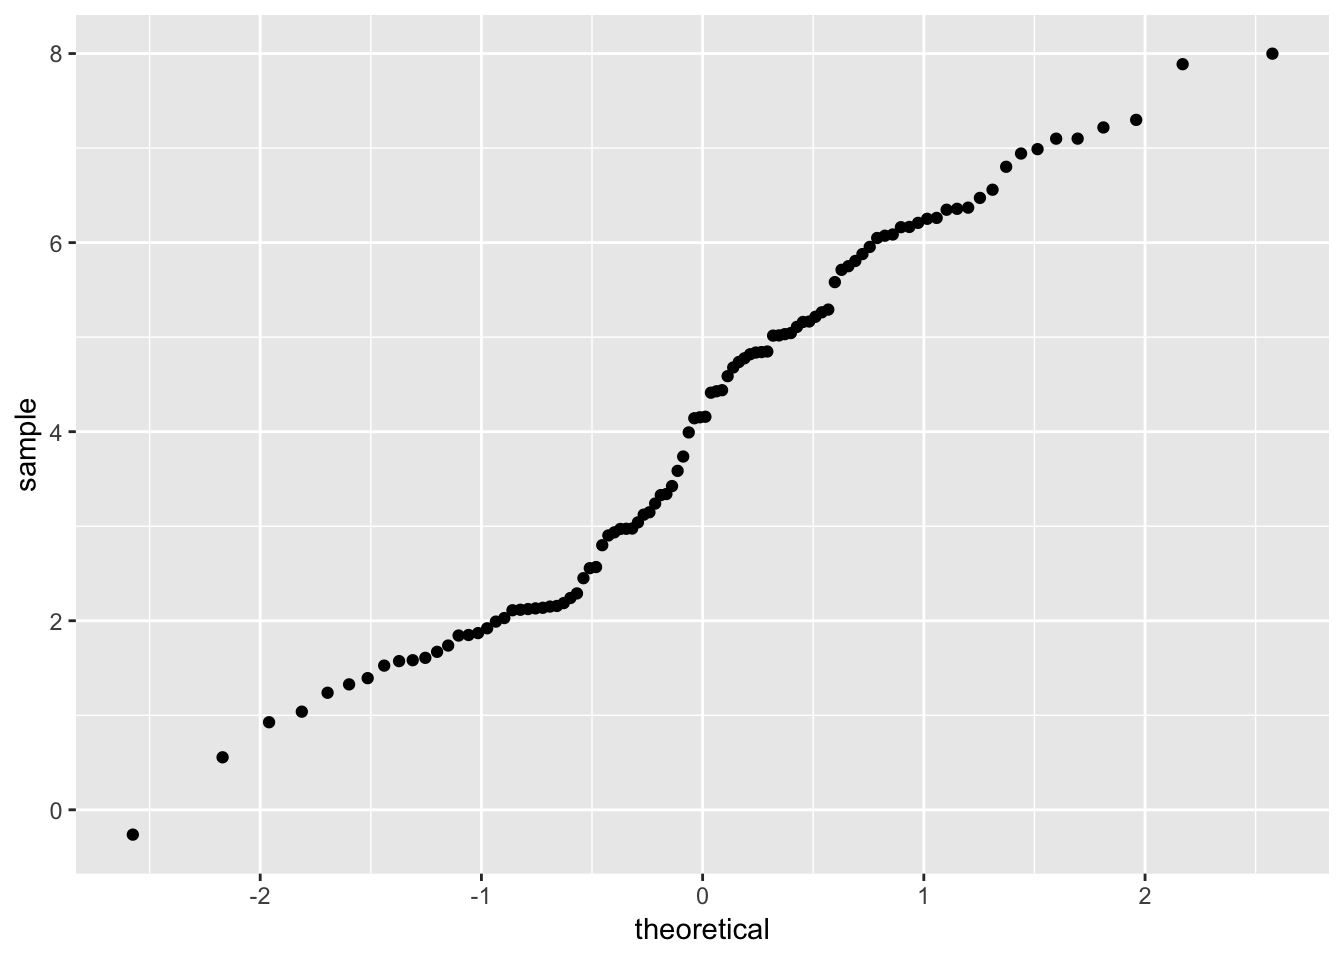
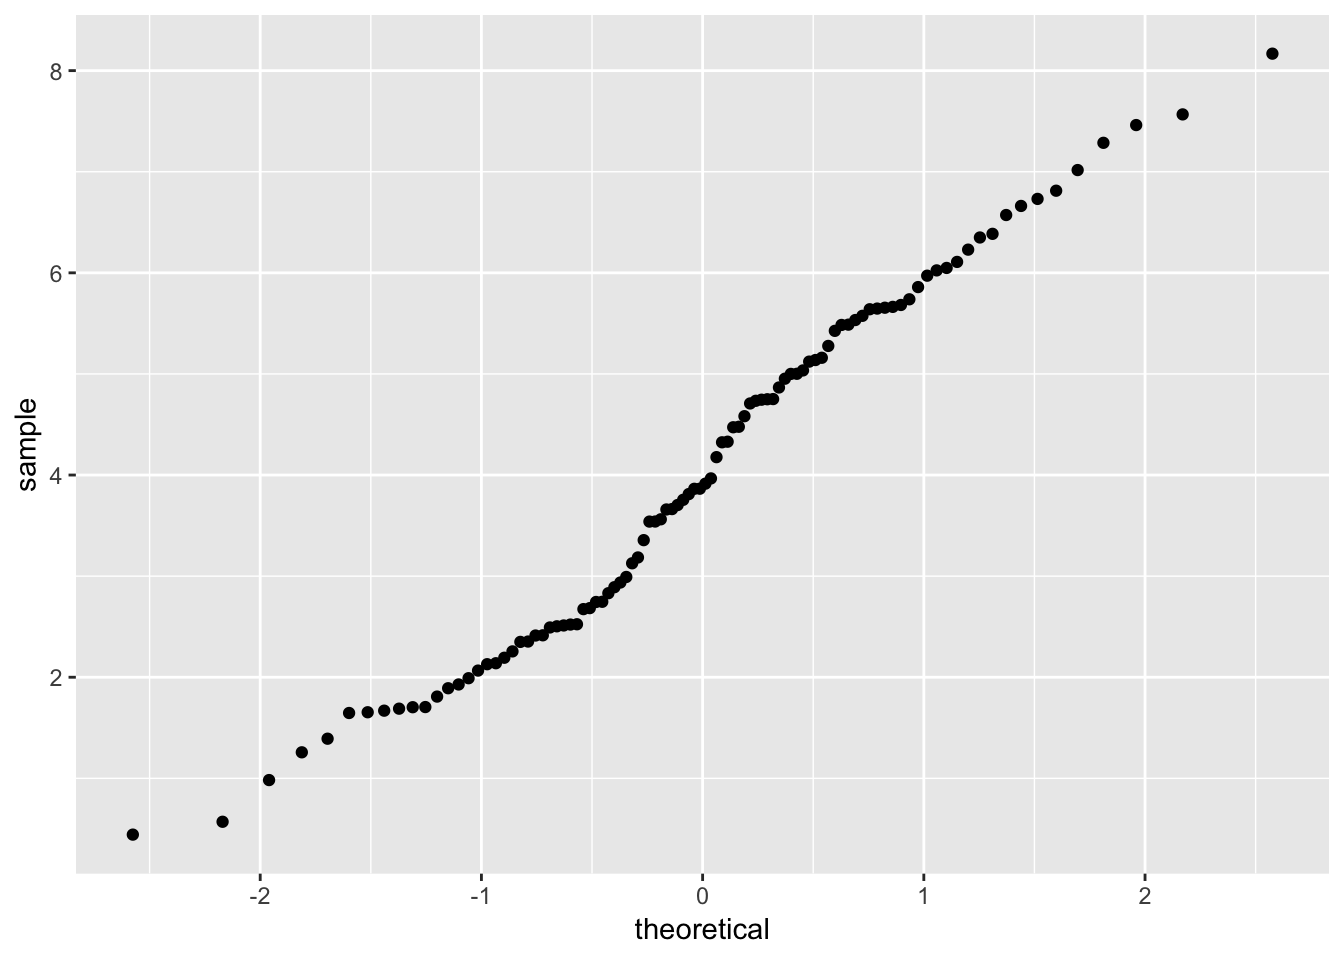
blog pictures bleh!

diff --git a/content/post/nrg03/nrg03.html b/content/post/nrg03/nrg03.html
@@ -39,7 +39,7 @@ output:
 <div id="understand-all-the-panels-in-r-studio" class="section level2">
 <h2>Understand all the panels in R Studio</h2>
 <div class="figure">
-<img src="/post/nrg03/r_studio_panels_tutorial.png" alt="Four panels in R Studio" />
+<img src="/post/nrg03/nrg03_files/r_studio_panels_tutorial.png" alt="Four panels in R Studio" />
 <p class="caption">Four panels in R Studio</p>
 </div>
 </div>
@@ -287,8 +287,8 @@ manip_sd &lt;- 1</code></pre>
 </blockquote>
 <pre class="r"><code># for example
 rnorm(n = 10, mean = 0, sd = 1)</code></pre>
-<pre><code>##  [1] -0.1063121 -0.1585752  1.7518197  0.2776372 -0.3528273 -0.1399195
-##  [7]  0.8548087  0.5309402 -0.7553756 -0.1354366</code></pre>
+<pre><code>##  [1]  1.2751539 -1.2305639  0.2032068 -0.9174356  0.9805339  0.6509167
+##  [7]  1.1275143  1.0049172 -1.2467263 -0.5025215</code></pre>
 </div>
 <div id="randomly-sample-from-our-populations-we-made-up-above" class="section level3">
 <h3>Randomly sample from our populations we made up above</h3>
@@ -302,23 +302,21 @@ manipulation_values &lt;- rnorm(n = sample_size, mean = manip_mean, sd = manip_s
 
 # print dep_var by just excecuting/running the name of the object
 dep_var</code></pre>
-<pre><code>##   [1]  4.1522248  2.4501101  3.2397652  2.1306375  2.9351244  1.8491186
-##   [7]  2.1235217  1.0381827  0.5555006  1.7376658  2.7991058  2.1370367
-##  [13]  2.9729326  2.9709760  2.1161988  3.3292318  4.4274474  0.9262027
-##  [19]  1.8692623  1.3268149  1.5827016  2.5679923  1.6076715  1.6711889
-##  [25]  1.5253098  3.7370285  1.3927827  2.1109773  1.2381414  2.1865924
-##  [31]  1.8437612  3.1220514  3.0404382  1.9909453  2.0284255  4.1578163
-##  [37]  1.5727591  2.2404501  2.2890009  2.9020723  3.4246539  4.1421143
-##  [43] -0.2624694  2.1500125  2.5560335  3.5855951  1.9202798  3.1476047
-##  [49]  2.1562790  2.9754810  6.2518863  5.9544175  5.0318270  4.8190761
-##  [55]  6.4730331  4.8420272  6.0860319  4.5872575  5.7120814  4.8481059
-##  [61]  5.5821426  5.1086653  7.1001064  3.9921399  4.4123070  4.4386747
-##  [67]  6.3478394  7.9988669  6.1658807  5.0431288  6.5596162  5.1653948
-##  [73]  5.2156429  5.0182678  6.3699928  4.6787226  6.3575458  5.8059852
-##  [79]  5.2916935  6.2614955  6.1631717  3.3406883  4.7370866  7.2984310
-##  [85]  6.9888336  4.8370836  5.8786656  4.7764585  6.8022194  6.9423401
-##  [91]  5.0162285  5.1608031  7.8874748  5.2626907  6.2089206  5.7505929
-##  [97]  6.0730046  7.2182187  7.0998254  6.0490530</code></pre>
+<pre><code>##   [1] 1.6693680 2.8311306 0.9829183 2.4923306 3.1847978 4.1769145 1.9284978
+##   [8] 2.3495507 1.7035698 2.1289337 2.3531313 1.3921304 4.8660646 2.5037923
+##  [15] 0.5705092 3.6632761 2.5120784 2.6837966 2.4126648 1.7050751 1.8912043
+##  [22] 2.1385809 3.5621668 2.5210442 1.6891757 3.5395660 2.5241043 3.9148613
+##  [29] 2.1928605 0.4433546 1.8086456 2.4148377 2.9918471 4.4774112 1.9904389
+##  [36] 1.6537024 3.1271801 3.8648182 2.0658791 2.2556004 2.6737481 1.2574403
+##  [43] 3.6593467 1.6463644 3.7033972 2.7443964 2.7463653 3.8638224 2.8905252
+##  [50] 2.9370370 4.7343959 5.6821051 5.5747950 5.6549748 7.4616398 4.3296711
+##  [57] 6.0483749 6.8123245 4.7495914 6.3857149 3.8116579 5.8590643 8.1678477
+##  [64] 5.0002788 5.1375611 5.0014812 4.7513481 6.6615902 4.7451396 6.1080515
+##  [71] 7.2859625 5.6632488 5.0348236 4.3238044 5.6397484 5.4261517 4.5819621
+##  [78] 5.5331835 5.9717863 5.1598864 3.5401757 3.7549481 3.3560268 6.7312285
+##  [85] 7.0164874 5.6464645 5.7382674 5.4875168 4.4725825 6.3496552 3.9666649
+##  [92] 7.5670603 6.2293750 5.2770156 5.1218247 6.0241428 4.9527396 5.4845245
+##  [99] 6.5718533 4.7079762</code></pre>
 </div>
 </div>
 <div id="create-a-potentially-confounding-variable-or-a-control-variable" class="section level2">
@@ -330,26 +328,23 @@ dep_var</code></pre>
 
 # print confound by just excecuting/running the name of the object
 confound</code></pre>
-<pre><code>##   [1]  2.85108503  2.18062822  1.16007304 -1.11163608  1.17404581
-##   [6]  0.81638749  1.76697824  0.55639984  1.48881477  0.76766896
-##  [11]  1.48999523  1.34791012  1.67717544  3.83517322 -0.63289324
-##  [16]  1.99153745  3.99976899  1.86653824  0.53614556  1.48310122
-##  [21]  1.68552768  2.86126852  0.98356726  1.63849595  0.77657078
-##  [26]  1.66273781 -0.37831426  0.55379143  1.78227699  1.60667641
-##  [31]  1.65073162  0.46237847  1.53511961  1.35371481  2.80998092
-##  [36]  2.18161060  0.38276982  1.88632045  0.80583390  2.14259631
-##  [41]  1.63060486  1.71892724 -0.56766552  2.36757501 -0.74464051
-##  [46]  1.59238710  1.64448035  0.46956554  0.02509734  0.23406894
-##  [51]  2.40672845  3.28938481  2.24023848  3.71602866  4.79290956
-##  [56]  4.01787246  3.69228738  2.46554802  2.22871977  1.59053833
-##  [61]  3.46320572  3.69725564  3.53027189  0.95078540  4.48164341
-##  [66]  1.00195179  2.70532748  5.83331293  2.56764544  2.63935352
-##  [71]  3.08650092  4.97020936  2.57673629  1.63987162  4.68020707
-##  [76]  3.21055818  2.26879323  2.86398980  3.51068477  3.17501303
-##  [81]  2.42249844  4.10054604  2.47667210  3.38665148  4.01686859
-##  [86]  4.28183950  3.38885218  1.59494776  3.47602011  4.48661171
-##  [91]  2.70466044  2.11871453  2.51876610  5.01953106  3.99504150
-##  [96]  2.58273808  3.54427739  4.30240590  3.21900564  0.97250422</code></pre>
+<pre><code>##   [1]  1.1564735  1.2237948  0.7132804  0.8901168  2.0572283  1.9930907
+##   [7]  2.3327631  0.8710979  1.3200340  1.3274772 -0.3266459  2.5731295
+##  [13]  1.4530292  2.2836395 -0.4297791  1.3185903  2.0396775  2.2042776
+##  [19] -0.4567960  1.6667799  1.7454513  0.3769527  1.5419550  0.7202848
+##  [25]  1.0238473  4.1983685  1.4539846  2.7241099  3.5611889 -0.3630028
+##  [31]  1.5112972  1.6840622  1.1536920  2.7725826  1.6051180  1.2029308
+##  [37]  1.0319387  1.0554471  0.4634944  3.4016417  3.5660525 -0.4113542
+##  [43]  0.9265050  1.3626703  1.6191939  0.3767989  1.0089480  2.3272479
+##  [49]  3.0527094 -0.2574511  3.2070027  1.7961404  0.8549810  2.6183174
+##  [55]  3.5948774  0.9310178  3.3745489  2.5628037  2.2063386  4.3829630
+##  [61]  0.2482280  2.7604928  3.9798271  2.3217357  3.2268343  3.3786026
+##  [67]  1.0410054  2.8145726  0.7396716  3.3402502  4.8459407  3.3494669
+##  [73]  2.9453679  2.2163443  3.0843918  3.1862878  2.2399778  3.2612103
+##  [79]  3.3881925  2.0884448  1.5878367  1.7605646 -0.7097648  2.7457701
+##  [85]  3.0886501  2.5974082  3.9457603  3.7731459  1.8679693  3.3135131
+##  [91]  2.4909853  3.6406982  2.8284563  2.3538530  3.4250357  3.6878804
+##  [97]  3.3477156  0.8973459  3.5435503  4.3722280</code></pre>
 </div>
 <div id="subject-gender" class="section level2">
 <h2>Subject gender</h2>
@@ -386,11 +381,11 @@ gender</code></pre>
 
 # print gender by just excecuting/running the name of the object
 age</code></pre>
-<pre><code>##   [1] 21 21 20 21 18 19 19 18 25 24 19 24 23 24 18 19 25 20 23 20 24 20 22
-##  [24] 23 23 19 23 19 20 25 24 18 20 19 18 22 25 23 22 25 22 18 24 25 24 20
-##  [47] 23 23 22 21 23 21 22 24 23 18 18 19 22 23 19 23 24 19 22 19 19 20 23
-##  [70] 19 19 21 21 22 23 24 18 20 18 22 20 19 25 19 18 18 25 22 20 20 20 24
-##  [93] 18 23 19 23 21 23 18 22</code></pre>
+<pre><code>##   [1] 25 19 22 20 18 24 22 22 21 19 23 25 22 20 18 19 18 25 21 25 25 20 23
+##  [24] 19 24 21 19 21 19 19 23 23 23 24 19 19 25 18 25 20 22 23 24 18 23 20
+##  [47] 23 24 22 23 23 19 23 18 23 19 24 23 20 23 21 23 24 18 21 18 20 22 19
+##  [70] 22 25 19 21 18 19 22 22 21 21 25 20 23 19 18 23 20 18 21 18 25 21 18
+##  [93] 21 23 18 21 20 21 23 19</code></pre>
 </div>
 <div id="data.frame-and-tibble" class="section level2">
 <h2><code>data.frame()</code> and <code>tibble()</code></h2>
@@ -416,16 +411,16 @@ example_data</code></pre>
 <pre><code>## # A tibble: 100 x 6
 ##    subj_num condition dep_var confound gender   age
 ##       &lt;dbl&gt; &lt;fct&gt;       &lt;dbl&gt;    &lt;dbl&gt; &lt;fct&gt;  &lt;dbl&gt;
-##  1        1 control     4.15     2.85  Woman     21
-##  2        2 control     2.45     2.18  Man       21
-##  3        3 control     3.24     1.16  Woman     20
-##  4        4 control     2.13    -1.11  Man       21
-##  5        5 control     2.94     1.17  Woman     18
-##  6        6 control     1.85     0.816 Man       19
-##  7        7 control     2.12     1.77  Woman     19
-##  8        8 control     1.04     0.556 Man       18
-##  9        9 control     0.556    1.49  Woman     25
-## 10       10 control     1.74     0.768 Man       24
+##  1        1 control     1.67     1.16  Woman     25
+##  2        2 control     2.83     1.22  Man       19
+##  3        3 control     0.983    0.713 Woman     22
+##  4        4 control     2.49     0.890 Man       20
+##  5        5 control     3.18     2.06  Woman     18
+##  6        6 control     4.18     1.99  Man       24
+##  7        7 control     1.93     2.33  Woman     22
+##  8        8 control     2.35     0.871 Man       22
+##  9        9 control     1.70     1.32  Woman     21
+## 10       10 control     2.13     1.33  Man       19
 ## # … with 90 more rows</code></pre>
 </div>
 </div>
@@ -449,16 +444,16 @@ example_data</code></pre>
 <pre><code>## # A tibble: 100 x 8
 ##    subj_num condition dep_var confound gender   age dep_var_z confound_z
 ##       &lt;dbl&gt; &lt;fct&gt;       &lt;dbl&gt;    &lt;dbl&gt; &lt;fct&gt;  &lt;dbl&gt;     &lt;dbl&gt;      &lt;dbl&gt;
-##  1        1 control     4.15     2.85  Woman     21    0.0535     0.432 
-##  2        2 control     2.45     2.18  Man       21   -0.812     -0.0412
-##  3        3 control     3.24     1.16  Woman     20   -0.411     -0.762 
-##  4        4 control     2.13    -1.11  Man       21   -0.975     -2.37  
-##  5        5 control     2.94     1.17  Woman     18   -0.566     -0.752 
-##  6        6 control     1.85     0.816 Man       19   -1.12      -1.00  
-##  7        7 control     2.12     1.77  Woman     19   -0.979     -0.333 
-##  8        8 control     1.04     0.556 Man       18   -1.53      -1.19  
-##  9        9 control     0.556    1.49  Woman     25   -1.78      -0.530 
-## 10       10 control     1.74     0.768 Man       24   -1.17      -1.04  
+##  1        1 control     1.67     1.16  Woman     25   -1.31      -0.724 
+##  2        2 control     2.83     1.22  Man       19   -0.665     -0.671 
+##  3        3 control     0.983    0.713 Woman     22   -1.69      -1.07  
+##  4        4 control     2.49     0.890 Man       20   -0.853     -0.935 
+##  5        5 control     3.18     2.06  Woman     18   -0.468     -0.0116
+##  6        6 control     4.18     1.99  Man       24    0.0840    -0.0624
+##  7        7 control     1.93     2.33  Woman     22   -1.17       0.206 
+##  8        8 control     2.35     0.871 Man       22   -0.933     -0.950 
+##  9        9 control     1.70     1.32  Woman     21   -1.29      -0.595 
+## 10       10 control     2.13     1.33  Man       19   -1.06      -0.589 
 ## # … with 90 more rows</code></pre>
 </div>
 <div id="select-specific-columns" class="section level2">
@@ -474,16 +469,16 @@ example_data</code></pre>
 <pre><code>## # A tibble: 100 x 3
 ##    subj_num condition dep_var
 ##       &lt;dbl&gt; &lt;fct&gt;       &lt;dbl&gt;
-##  1        1 control     4.15 
-##  2        2 control     2.45 
-##  3        3 control     3.24 
-##  4        4 control     2.13 
-##  5        5 control     2.94 
-##  6        6 control     1.85 
-##  7        7 control     2.12 
-##  8        8 control     1.04 
-##  9        9 control     0.556
-## 10       10 control     1.74 
+##  1        1 control     1.67 
+##  2        2 control     2.83 
+##  3        3 control     0.983
+##  4        4 control     2.49 
+##  5        5 control     3.18 
+##  6        6 control     4.18 
+##  7        7 control     1.93 
+##  8        8 control     2.35 
+##  9        9 control     1.70 
+## 10       10 control     2.13 
 ## # … with 90 more rows</code></pre>
 </div>
 <div id="filter-specific-rows" class="section level2">
@@ -500,16 +495,16 @@ example_data</code></pre>
 <pre><code>## # A tibble: 50 x 8
 ##    subj_num condition dep_var confound gender   age dep_var_z confound_z
 ##       &lt;dbl&gt; &lt;fct&gt;       &lt;dbl&gt;    &lt;dbl&gt; &lt;fct&gt;  &lt;dbl&gt;     &lt;dbl&gt;      &lt;dbl&gt;
-##  1        1 control     4.15     2.85  Woman     21    0.0535     0.432 
-##  2        2 control     2.45     2.18  Man       21   -0.812     -0.0412
-##  3        3 control     3.24     1.16  Woman     20   -0.411     -0.762 
-##  4        4 control     2.13    -1.11  Man       21   -0.975     -2.37  
-##  5        5 control     2.94     1.17  Woman     18   -0.566     -0.752 
-##  6        6 control     1.85     0.816 Man       19   -1.12      -1.00  
-##  7        7 control     2.12     1.77  Woman     19   -0.979     -0.333 
-##  8        8 control     1.04     0.556 Man       18   -1.53      -1.19  
-##  9        9 control     0.556    1.49  Woman     25   -1.78      -0.530 
-## 10       10 control     1.74     0.768 Man       24   -1.17      -1.04  
+##  1        1 control     1.67     1.16  Woman     25   -1.31      -0.724 
+##  2        2 control     2.83     1.22  Man       19   -0.665     -0.671 
+##  3        3 control     0.983    0.713 Woman     22   -1.69      -1.07  
+##  4        4 control     2.49     0.890 Man       20   -0.853     -0.935 
+##  5        5 control     3.18     2.06  Woman     18   -0.468     -0.0116
+##  6        6 control     4.18     1.99  Man       24    0.0840    -0.0624
+##  7        7 control     1.93     2.33  Woman     22   -1.17       0.206 
+##  8        8 control     2.35     0.871 Man       22   -0.933     -0.950 
+##  9        9 control     1.70     1.32  Woman     21   -1.29      -0.595 
+## 10       10 control     2.13     1.33  Man       19   -1.06      -0.589 
 ## # … with 40 more rows</code></pre>
 </div>
 <div id="make-your-own-table-of-summary-data" class="section level2">
@@ -529,10 +524,10 @@ example_data</code></pre>
 ## # Groups:   gender [?]
 ##   gender condition     Mean    SD     n
 ##   &lt;fct&gt;  &lt;fct&gt;        &lt;dbl&gt; &lt;dbl&gt; &lt;int&gt;
-## 1 Man    control       1.46 0.987    25
-## 2 Man    manipulation  3.12 1.36     25
-## 3 Woman  control       1.18 1.13     25
-## 4 Woman  manipulation  3.20 0.782    25</code></pre>
+## 1 Man    control       1.50 1.15     25
+## 2 Man    manipulation  2.81 0.903    25
+## 3 Woman  control       1.40 1.04     25
+## 4 Woman  manipulation  2.58 1.32     25</code></pre>
 </div>
 </div>
 <div id="plotting-your-data-with-ggplot2" class="section level1">
@@ -634,16 +629,16 @@ example_data</code></pre>
 <pre class="r"><code>example_data %&gt;% 
   select(dep_var, dep_var_z, confound, confound_z) %&gt;% 
   describe()</code></pre>
-<pre><code>##            vars   n mean   sd median trimmed  mad   min  max range skew
-## dep_var       1 100 4.05 1.97   4.16    4.02 2.79 -0.26 8.00  8.26 0.04
-## dep_var_z     2 100 0.00 1.00   0.05   -0.01 1.42 -2.19 2.01  4.20 0.04
-## confound      3 100 2.24 1.42   2.18    2.24 1.50 -1.11 5.83  6.94 0.05
-## confound_z    4 100 0.00 1.00  -0.04    0.00 1.06 -2.37 2.54  4.90 0.05
+<pre><code>##            vars   n mean   sd median trimmed  mad   min  max range  skew
+## dep_var       1 100 4.03 1.80   3.89    3.99 2.23  0.44 8.17  7.72  0.12
+## dep_var_z     2 100 0.00 1.00  -0.08   -0.02 1.24 -1.99 2.30  4.30  0.12
+## confound      3 100 2.07 1.26   2.15    2.11 1.56 -0.71 4.85  5.56 -0.15
+## confound_z    4 100 0.00 1.00   0.06    0.03 1.23 -2.20 2.19  4.39 -0.15
 ##            kurtosis   se
-## dep_var       -1.14 0.20
-## dep_var_z     -1.14 0.10
-## confound      -0.38 0.14
-## confound_z    -0.38 0.10</code></pre>
+## dep_var       -0.96 0.18
+## dep_var_z     -0.96 0.10
+## confound      -0.72 0.13
+## confound_z    -0.72 0.10</code></pre>
 </div>
 <div id="by-condition" class="section level2">
 <h2>By condition</h2>
@@ -657,27 +652,27 @@ example_data</code></pre>
 ##  Descriptive statistics by group 
 ## condition: control
 ##            vars  n  mean   sd median trimmed  mad   min  max range skew
-## dep_var       1 50  2.35 0.97   2.15    2.34 0.94 -0.26 4.43  4.69 0.02
-## dep_var_z     2 50 -0.86 0.49  -0.96   -0.87 0.48 -2.19 0.19  2.39 0.02
-## confound      3 50  1.32 1.06   1.51    1.33 0.96 -1.11 4.00  5.11 0.00
-## confound_z    4 50 -0.65 0.75  -0.51   -0.64 0.68 -2.37 1.24  3.61 0.00
+## dep_var       1 50  2.55 0.96   2.50    2.53 0.92  0.44 4.87  4.42 0.19
+## dep_var_z     2 50 -0.82 0.53  -0.85   -0.83 0.51 -1.99 0.47  2.46 0.19
+## confound      3 50  1.45 1.09   1.35    1.42 0.93 -0.46 4.20  4.66 0.28
+## confound_z    4 50 -0.49 0.86  -0.57   -0.51 0.74 -2.00 1.68  3.68 0.28
 ##            kurtosis   se
-## dep_var       -0.04 0.14
-## dep_var_z     -0.04 0.07
-## confound       0.27 0.15
-## confound_z     0.27 0.11
+## dep_var       -0.27 0.14
+## dep_var_z     -0.27 0.08
+## confound      -0.15 0.15
+## confound_z    -0.15 0.12
 ## -------------------------------------------------------- 
 ## condition: manipulation
-##            vars  n mean   sd median trimmed  mad   min  max range skew
-## dep_var       1 50 5.74 1.01   5.78    5.72 1.10  3.34 8.00  4.66 0.14
-## dep_var_z     2 50 0.86 0.51   0.88    0.85 0.56 -0.36 2.01  2.37 0.14
-## confound      3 50 3.16 1.10   3.21    3.16 1.13  0.95 5.83  4.88 0.03
-## confound_z    4 50 0.65 0.77   0.69    0.65 0.80 -0.91 2.54  3.45 0.03
+##            vars  n mean   sd median trimmed  mad   min  max range  skew
+## dep_var       1 50 5.51 1.07   5.51    5.48 1.10  3.36 8.17  4.81  0.23
+## dep_var_z     2 50 0.82 0.59   0.83    0.81 0.61 -0.37 2.30  2.68  0.23
+## confound      3 50 2.69 1.13   2.89    2.77 0.90 -0.71 4.85  5.56 -0.78
+## confound_z    4 50 0.49 0.89   0.64    0.56 0.71 -2.20 2.19  4.39 -0.78
 ##            kurtosis   se
-## dep_var       -0.49 0.14
-## dep_var_z     -0.49 0.07
-## confound      -0.39 0.16
-## confound_z    -0.39 0.11</code></pre>
+## dep_var       -0.28 0.15
+## dep_var_z     -0.28 0.08
+## confound       0.44 0.16
+## confound_z     0.44 0.13</code></pre>
 </div>
 </div>
 <div id="read-in-your-own-data" class="section level1">
@@ -764,13 +759,13 @@ coffee_data &lt;- coffee_filepath %&gt;% read_delim(delim = &quot; &quot;)</code
 ##  Welch Two Sample t-test
 ## 
 ## data:  dep_var by condition
-## t = -17.127, df = 97.848, p-value &lt; 2.2e-16
+## t = -14.584, df = 96.958, p-value &lt; 2.2e-16
 ## alternative hypothesis: true difference in means is not equal to 0
 ## 95 percent confidence interval:
-##  -3.778800 -2.994035
+##  -3.362693 -2.557085
 ## sample estimates:
 ##      mean in group control mean in group manipulation 
-##                   2.353815                   5.740233</code></pre>
+##                   2.546005                   5.505894</code></pre>
 </div>
 <div id="pairs.panels-helppairs.panels" class="section level2">
 <h2><code>pairs.panels()</code>, help(pairs.panels)</h2>
@@ -794,7 +789,7 @@ lm_fit</code></pre>
 ## 
 ## Coefficients:
 ##           (Intercept)  conditionmanipulation               confound  
-##                1.9279                 2.7933                 0.3227</code></pre>
+##                1.8857                 2.3973                 0.4545</code></pre>
 </div>
 <div id="summary-helpsummary" class="section level2">
 <h2><code>summary()</code>, help(summary)</h2>
@@ -804,20 +799,20 @@ lm_fit</code></pre>
 ## lm(formula = dep_var ~ condition + confound, data = example_data)
 ## 
 ## Residuals:
-##      Min       1Q   Median       3Q      Max 
-## -2.70365 -0.58475 -0.08851  0.75524  2.35352 
+##     Min      1Q  Median      3Q     Max 
+## -1.6630 -0.6758 -0.0586  0.6653  2.3200 
 ## 
 ## Coefficients:
 ##                       Estimate Std. Error t value Pr(&gt;|t|)    
-## (Intercept)            1.92790    0.17466  11.038  &lt; 2e-16 ***
-## conditionmanipulation  2.79334    0.24537  11.384  &lt; 2e-16 ***
-## confound               0.32266    0.08706   3.706  0.00035 ***
+## (Intercept)            1.88568    0.17182  10.975  &lt; 2e-16 ***
+## conditionmanipulation  2.39729    0.20355  11.777  &lt; 2e-16 ***
+## confound               0.45447    0.08091   5.617 1.85e-07 ***
 ## ---
 ## Signif. codes:  0 &#39;***&#39; 0.001 &#39;**&#39; 0.01 &#39;*&#39; 0.05 &#39;.&#39; 0.1 &#39; &#39; 1
 ## 
-## Residual standard error: 0.93 on 97 degrees of freedom
-## Multiple R-squared:  0.7806, Adjusted R-squared:  0.7761 
-## F-statistic: 172.6 on 2 and 97 DF,  p-value: &lt; 2.2e-16</code></pre>
+## Residual standard error: 0.886 on 97 degrees of freedom
+## Multiple R-squared:  0.762,  Adjusted R-squared:  0.7571 
+## F-statistic: 155.3 on 2 and 97 DF,  p-value: &lt; 2.2e-16</code></pre>
 </div>
 <div id="anova-helpanova" class="section level2">
 <h2><code>Anova()</code>, help(Anova)</h2>
@@ -825,11 +820,11 @@ lm_fit</code></pre>
 <pre><code>## Anova Table (Type III tests)
 ## 
 ## Response: dep_var
-##              Sum Sq Df F value  Pr(&gt;F)    
-## (Intercept) 105.389  1 121.844 &lt; 2e-16 ***
-## condition   112.100  1 129.604 &lt; 2e-16 ***
-## confound     11.881  1  13.736 0.00035 ***
-## Residuals    83.900 97                    
+##              Sum Sq Df F value    Pr(&gt;F)    
+## (Intercept)  94.555  1  120.45 &lt; 2.2e-16 ***
+## condition   108.886  1  138.71 &lt; 2.2e-16 ***
+## confound     24.767  1   31.55 1.855e-07 ***
+## Residuals    76.146 97                      
 ## ---
 ## Signif. codes:  0 &#39;***&#39; 0.001 &#39;**&#39; 0.01 &#39;*&#39; 0.05 &#39;.&#39; 0.1 &#39; &#39; 1</code></pre>
 </div>
